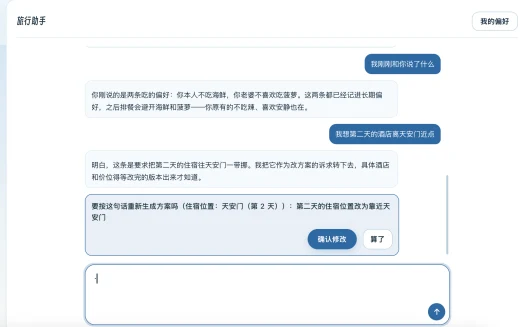
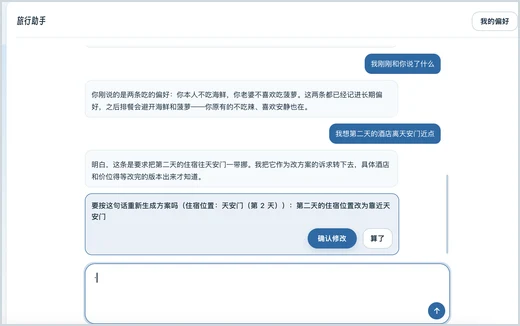
docs(readme): 产品图加一圈边框，别和页面背景糊在一起
截图大多是浅底（聊天页、表单页、结果页），摆在 README 的白底上边界看不出来，
像是底色直接漫过去了。加一圈 1px 的 #d0d7de（GitHub 的 border-default）。

直接画进图片文件，不走 CSS：`style` 这类属性在不同渲染器里存活率不一样，
写进 README 也不是处处生效；画进文件里则哪儿都看得见。

合计 147K → 153K。

diff --git a/README.md b/README.md
@@ -8,7 +8,7 @@
 下一次规划会自动带上，冲突时会当面指出来而不是顺着方案说「这家不错」。
 
 > 下面每个功能都配了实拍图，都是真跑出来的：上海 → 北京 3 天，接真模型与高德底图。
-> 全部产品图在 [`docs/images/`](docs/images/)，压成 webp 一共 150 KB 不到。
+> 全部产品图在 [`docs/images/`](docs/images/)，压成 webp 一共 150 KB 出头。
 
 ## 功能
 
